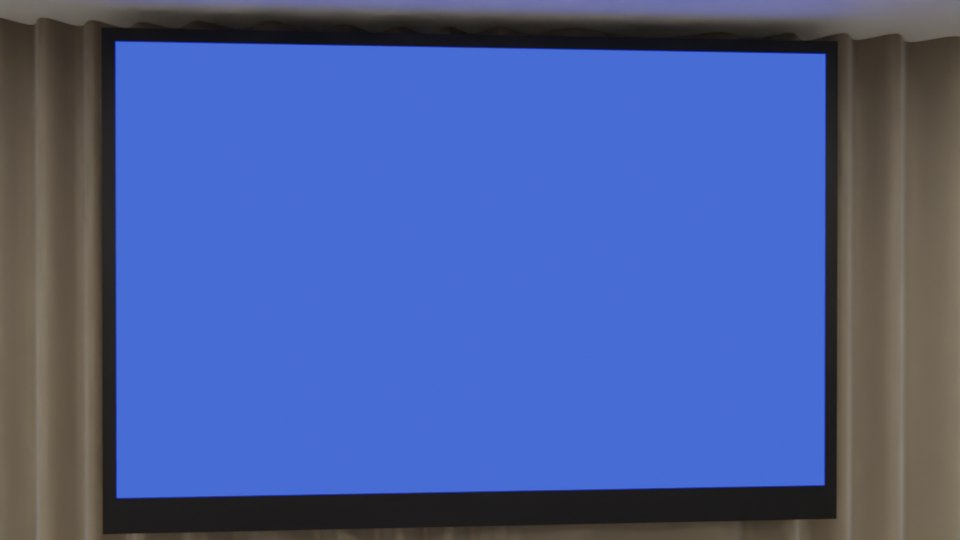
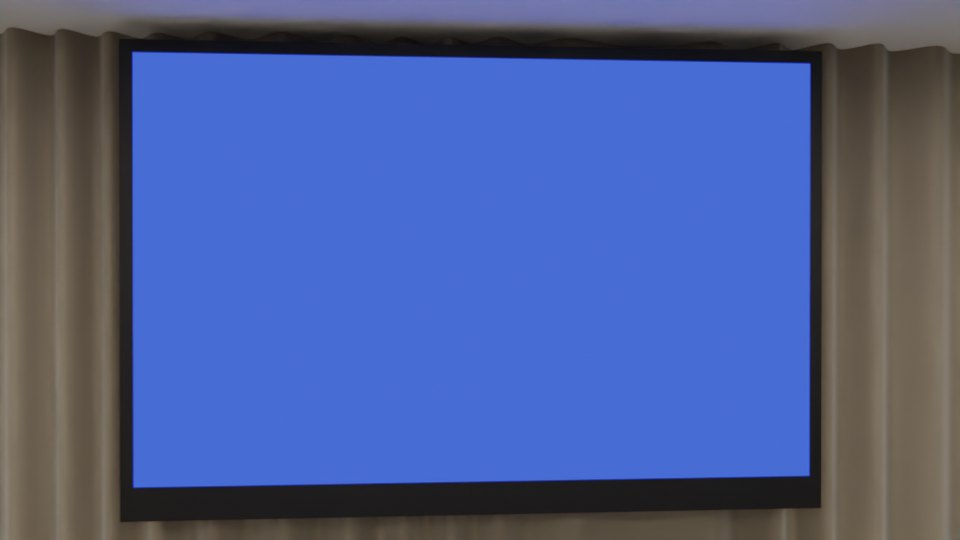
Cinema: review round 8 fixes
Phone search back to one line; one card title size, clamped; speaker names keep two
lines; snippets start at the match; a lone talk gets a double-width card; 'What to
try' instead of 'On Monday'; phone talk actions at the bottom of the totem, tabs
scroll with a fade; HTML tucked 1 cm under the bezels; plainer BOF wording; a
readable text-only link.

diff --git a/site/cinema/cinema.js b/site/cinema/cinema.js
@@ -40,6 +40,7 @@ const talks = window.DEVOXX.talks.filter((t) => t.type !== "Keynote Overflow").m
   ...t, title: clean(t.title), speakers: t.speakers.map((sp) => ({ ...sp, name: capital(clean(sp.name)) })) }));
 const speakers = (t, withCompany) => t.speakers.map((sp) => withCompany && sp.company ? `${sp.name} (${sp.company})` : sp.name).join(", ");
 const when = (t) => t.start ? `${fDay.format(new Date(t.start))} ${fTime.format(new Date(t.start))}` : null;
+const whenShort = (t) => t.start ? `${fShort.format(new Date(t.start))} Oct, ${fTime.format(new Date(t.start))}` : null;
 const whenLong = (t) => t.start ? `${fDayLong.format(new Date(t.start))}, ${fTime.format(new Date(t.start))}` : null;
 const typeLabel = (t) => (t.type === "Conference" ? "" : t.type);   // a plain talk needs no label
 const titleSize = (title, big, small) => title.length > 90 ? small : title.length > 55 ? (big + small) / 2 : big;
@@ -206,9 +207,9 @@ function why(t, terms) {
     const lower = text.toLowerCase(), w = terms.find((x) => lower.includes(x));
     if (!w) continue;
     const i = lower.indexOf(w);
-    let a = Math.max(0, i - 16);
-    if (a > 0) { const sp = text.lastIndexOf(" ", i - 1); a = sp >= a - 12 && sp >= 0 ? sp + 1 : a; }   // start on a word
-    return el("span", { class: "why" }, el("b", { text: `${name}: ` }), a ? "…" : "", text.slice(a, i), el("mark", { text: text.slice(i, i + w.length) }), text.slice(i + w.length, i + w.length + 70));
+    const a = i;                                                     // start at the match, so it's always in view
+    const word = text.slice(i).match(/^\S+/)[0].replace(/[,.;:]$/, "");    // the whole matched word, e.g. "Kotlin"
+    return el("span", { class: "why" }, el("b", { text: `${name}: ` }), a > 0 && name !== "Speaker" ? "…" : "", el("mark", { text: word }), text.slice(i + word.length, i + word.length + 70));
   }
   return null;
 }
@@ -221,7 +222,7 @@ function card(t, { when: showWhen = null, terms = null } = {}) {
       "aria-label": [t.title, speakers(t), t.room, showWhen ? when(t) : null, on ? "walks you to your seat" : null].filter(Boolean).join(", ") },
     el("span", { class: "room" }, n ? el("span", { class: "where" }, el("small", { text: "Room" }), el("b", { text: String(n) })) : el("span", { class: "where" }, el("b", { class: "is-text", text: t.room || "Room TBC" })),
       el("span", { class: "label", text: label })),
-    el("span", { class: "title", text: t.title, style: t.title.length > 72 ? "font-size:.86em" : null }),
+    el("span", { class: "title", text: t.title }),
     el("span", { class: "who", text: speakers(t) }),
     hint);
 }
@@ -266,7 +267,7 @@ function programme(tall) {
     const later = talks.filter((t) => t.start && dayKey(t.start) === day && t.start > slot).sort((a, b) => a.start.localeCompare(b.start) || (roomNo(a) || 99) - (roomNo(b) || 99));
     const fill = here.length < (tall ? 4 : 8) ? later.slice(0, (tall ? 6 : 8) - here.length) : [];
     const cards = el("div", { class: `cards scroller${tall ? "" : fill.length ? " is-packed" : " is-exact"}`, tabindex: "-1" },
-      here.map((t) => card(t, { when: fill.length ? "time" : null })),
+      here.map((t) => { const c = card(t, { when: fill.length ? "time" : null }); if (fill.length) c.classList.add(here.length === 1 ? "is-now-wide" : "is-now"); return c; }),
       fill.length ? el("div", { class: "later", text: "Later that day" }) : null, fill.map((t) => card(t, { when: "time" })));
     put(body, el("div", { class: "slot-head" }, el("b", { text: fTime.format(new Date(slot)) }),
         el("span", { text: `${fDayLong.format(new Date(slot))}, ${here.length} ${here.length === 1 ? "session" : "sessions"}. Pick a talk to take your seat.` })),
@@ -282,11 +283,11 @@ function programme(tall) {
 const toSeconds = (at) => { const [m, sec] = String(at).split(":").map(Number); return (m || 0) * 60 + (sec || 0); };
 function talkScreen(t, tall, onFloor, doorRoom = null) {
   const s = t.s || {};
-  const tabs = [["short", "In short"], ["points", "Key points"], ["monday", "On Monday"], ["chapters", "Chapters"], ["story", "Summary"]]
+  const tabs = [["short", "In short"], ["points", "Key points"], ["monday", "What to try"], ["chapters", "Chapters"], ["story", "Full summary"]]
     .filter(([id]) => (id === "short" && tall && s.tldr) || (id === "points" && s.keyPoints && s.keyPoints.length) || (id === "monday" && s.takeaways && s.takeaways.length)
       || (id === "chapters" && s.chapters && s.chapters.length && onFloor) || id === "story");
   const pane = el("div", { class: "pane scroller", tabindex: "0", "aria-label": "Talk details" });
-  const tabRow = el("div", { class: "tabs", role: "group", "aria-label": "Talk details" });
+  const tabRow = el("div", { class: `tabs${tall ? " strip" : ""}`, role: "group", "aria-label": "Talk details" });
   let playAt = null;
   const chapter = (c) => {
     const kids = [el("time", { text: c.at }), el("span", { text: c.title })];
@@ -315,8 +316,8 @@ function talkScreen(t, tall, onFloor, doorRoom = null) {
     main.textContent = "";
     put(main,
       doorRoom && tall ? el("div", { class: "door-sign" }, el("small", { text: "Room" }), el("b", { text: String(doorRoom) }), el("span", { text: t.start ? `Recorded ${fShort.format(new Date(t.start))} Oct` : "" })) : null,
-      el("div", { class: "meta", text: [doorRoom && tall ? null : t.room, whenLong(t), typeLabel(t), t.videoId ? null : "no recording yet"].filter(Boolean).join(", ") }),
-      !onFloor ? el("p", { class: "offnote", text: /^BOF/.test(t.room || "") ? "Downstairs meeting room, no cinema seat." : "No cinema seat to walk you to for this one." }) : null,
+      el("div", { class: "meta", text: [doorRoom && tall ? null : t.room, doorRoom && tall ? (t.start ? fTime.format(new Date(t.start)) : null) : whenShort(t), typeLabel(t), t.videoId ? null : "no recording yet"].filter(Boolean).join(", ") }),
+      !onFloor ? el("p", { class: "offnote", text: /^BOF/.test(t.room || "") ? `Held downstairs in ${t.room}.` : "Held outside the cinema rooms." }) : null,
       el("h2", { text: t.title, style: `--title:${titleSize(t.title, 40, 30)}px;--title-s:${titleSize(t.title, 23, 19)}px` }),
       el("div", { class: "who-l", text: speakers(t, true) }),
       !tall && s.tldr ? el("p", { class: "tldr", text: s.tldr }) : null,

diff --git a/site/cinema/cinema.css b/site/cinema/cinema.css
@@ -43,8 +43,8 @@ button, input, a { font: inherit; color: inherit; }
   opacity: .5; mix-blend-mode: soft-light; }
 
 /* chrome outside the screens: small, quiet, fixed */
-.exit { position: fixed; z-index: 5; left: 12px; top: calc(10px + env(safe-area-inset-top, 0px)); background: rgba(5, 7, 20, .55); color: rgba(174, 184, 236, .85);
-  border: 0; border-radius: 999px; padding: 6px 11px; font-size: 12px; text-decoration: none; backdrop-filter: blur(6px); }
+.exit { position: fixed; z-index: 5; left: 12px; top: calc(10px + env(safe-area-inset-top, 0px)); background: rgba(5, 7, 20, .7); color: #D5DBF7;
+  border: 1px solid rgba(174, 184, 236, .28); border-radius: 999px; padding: 6px 12px; font-size: 14px; text-decoration: none; backdrop-filter: blur(6px); }
 .exit:hover { color: var(--ink); border-color: var(--muted); }
 .exit:focus-visible { outline: 3px solid #fff; outline-offset: 2px; }
 .dock { position: fixed; z-index: 5; left: 50%; bottom: calc(16px + env(safe-area-inset-bottom, 0px)); translate: -50% 0; display: flex; gap: 8px; align-items: center; }
@@ -100,9 +100,11 @@ button, input, a { font: inherit; color: inherit; }
 .cards.is-exact > .card { height: auto; min-height: 0; }
 .card { overflow: hidden; }
 .cards.is-exact .card .title { -webkit-line-clamp: 4; }
-.cards.is-packed > .card { height: 140px; gap: 6px; }
+.cards.is-packed > .card { height: 156px; gap: 6px; }
 .cards.is-packed .card .title { -webkit-line-clamp: 2; }
-.cards.is-packed .card .who { -webkit-line-clamp: 1; }
+.cards.is-packed > .card.is-now, .cards.is-packed > .card.is-now-wide { height: 176px; }
+.cards.is-packed > .card.is-now-wide { grid-column: span 2; }
+.cards.is-packed .card.is-now .title, .cards.is-packed .card.is-now-wide .title { -webkit-line-clamp: 3; }
 .card .why { font-size: 17px; line-height: 1.35; color: var(--muted); white-space: nowrap; overflow: hidden; text-overflow: ellipsis; flex: none; }
 .card .why b { font-weight: 700; }
 .results .cards > .card, .slot .cards.scroller[aria-label="Search results"] > .card { height: auto; min-height: 172px; }
@@ -119,7 +121,7 @@ button, input, a { font: inherit; color: inherit; }
 .card .where small { font-size: 16px; font-weight: 600; }
 .card .where b.is-text { font-size: 22px; font-stretch: 100%; }
 .card .room b { font-size: 30px; font-weight: 800; font-stretch: 125%; line-height: .9; white-space: nowrap; }
-.card .title { font-size: 19px; font-weight: 700; line-height: 1.17; padding-bottom: 1px; display: -webkit-box; -webkit-line-clamp: 4; -webkit-box-orient: vertical; overflow: hidden; }
+.card .title { font-size: 18px; font-weight: 700; line-height: 1.18; padding-bottom: 1px; display: -webkit-box; -webkit-line-clamp: 4; -webkit-box-orient: vertical; overflow: hidden; }
 .card .who { font-size: 17px; line-height: 1.25; opacity: .88; display: -webkit-box; -webkit-line-clamp: 2; -webkit-box-orient: vertical; overflow: hidden; }
 .card.is-off { background: var(--panel); color: var(--ink); box-shadow: inset 0 0 0 2px var(--line); }
 .card.is-off .who { color: var(--muted); opacity: 1; }
@@ -135,7 +137,7 @@ button, input, a { font: inherit; color: inherit; }
 .prog.is-tall .prog-head { flex-direction: column; align-items: stretch; gap: 10px; }
 .prog.is-tall .brand { font-size: 25px; gap: 8px; }
 .prog.is-tall .brand small { font-size: 13px; }
-.prog.is-tall .search { width: 100%; font-size: 16px; padding: 9px 12px; border-radius: 9px; }
+.prog.is-tall .search { width: 100%; flex: none; margin-left: 0; font-size: 16px; padding: 9px 12px; border-radius: 9px; }
 .prog.is-tall .nav { gap: 12px; }
 .prog.is-tall .days .pill { font-size: 14px; padding: 6px 8px; }
 .prog.is-tall .days { gap: 5px; }
@@ -192,14 +194,19 @@ button, input, a { font: inherit; color: inherit; }
 .door-sign b { font-size: 44px; font-weight: 800; font-stretch: 125%; line-height: .9; color: var(--orange); }
 .door-sign span { margin-left: auto; font-size: 13px; font-weight: 600; color: var(--muted); }
 
-.talk.is-tall { grid-template-columns: minmax(0, 1fr); grid-template-rows: auto minmax(0, 1fr); gap: 14px; padding: 22px 18px 16px 22px; }
+.talk.is-tall { display: flex; flex-direction: column; gap: 12px; padding: 22px 18px 16px 22px; }
+.talk.is-tall .talk-main { display: contents; }
+.talk.is-tall .talk-side { flex: 1; order: 2; min-height: 0; }
+.talk.is-tall .actions { order: 3; margin-top: 4px; }
+.talk.is-tall .tabs { flex-wrap: nowrap; overflow-x: auto; scrollbar-width: none; position: relative; padding: 4px; margin: -4px -4px 4px; }
+.talk.is-tall .tabs::-webkit-scrollbar { display: none; }
 .talk.is-tall .meta { font-size: 13px; }
 .talk.is-tall .offnote { margin-top: 6px; }
 .talk.is-tall h2 { margin-top: 6px; font-size: var(--title-s, 23px); }
 .talk.is-tall .who-l { margin-top: 6px; font-size: 14px; }
 .talk.is-tall .actions { margin-top: 10px; gap: 8px; }
 .talk.is-tall .btn { font-size: 14px; padding: 8px 12px; border-radius: 9px; border-width: 1.5px; }
-.talk.is-tall .tabs { gap: 6px; margin-bottom: 8px; }
+.talk.is-tall .tabs { gap: 6px; }
 .talk.is-tall .tabs .pill { font-size: 13px; padding: 5px 9px; border-radius: 7px; border-width: 1.5px; }
 .talk.is-tall .pane { font-size: 15px; line-height: 1.45; padding-right: 4px; }
 .talk.is-tall .pane ul, .talk.is-tall .pane ol { gap: 7px; }

diff --git a/scripts/blender/build_scene.py b/scripts/blender/build_scene.py
@@ -1319,7 +1319,7 @@ def set_cam(loc, target, fov):
 def hall_pose():
     """A little left of square on to the programme screen, close enough that it fills most of a laptop's view, far
     enough that the columns, the ceiling and the curtains around it say where you are."""
-    d = fit_distance(SCREEN["w"] + 2 * BEZEL, SCREEN["h"] + BEZEL + CHIN, 40, 0.9)
+    d = fit_distance(SCREEN["w"] + 2 * BEZEL, SCREEN["h"] + BEZEL + CHIN, 40, 0.86)
     return (SCREEN["x"] - 0.06 * d, SCREEN["y"] - d, SCREEN["z"] + 0.02), (SCREEN["x"], SCREEN["y"], SCREEN["z"]), 40
 
 
@@ -1521,9 +1521,15 @@ phone_hall_cam = still_cam("cam-hall-phone", (TOTEM["x"], TOTEM["y"] - tdist, TO
                            2 * math.degrees(math.atan(math.tan(_hfov / 2) * PHONE[1] / PHONE[0])), dof=(tdist, 1.8))
 bpy.context.view_layer.update()       # matrix_world is stale until the depsgraph runs
 set_res(LAPTOP)
-shots["hall"] = {"kind": "still", "overlay": {"programme": screen_quad(screen_corners, hall_cam)}, "size": {"programme": [SCREEN["w"], SCREEN["h"]]}}
+def grow(corners, by=0.01):
+    """The quad a little larger, so the HTML tucks under the bezel and the screen's own glow never peeks out."""
+    c = Vector([sum(p[i] for p in corners) / 4 for i in range(3)])
+    return [tuple(c + (Vector(p) - c) * (1 + by / max(0.1, (Vector(p) - c).length))) for p in corners]
+
+
+shots["hall"] = {"kind": "still", "overlay": {"programme": screen_quad(grow(screen_corners), hall_cam)}, "size": {"programme": [SCREEN["w"], SCREEN["h"]]}}
 set_res(PHONE)
-shots["hall-phone"] = {"kind": "still", "overlay": {"programme": screen_quad(totem_corners, phone_hall_cam)}, "size": {"programme": [TOTEM["w"], TOTEM["h"]]}}
+shots["hall-phone"] = {"kind": "still", "overlay": {"programme": screen_quad(grow(totem_corners), phone_hall_cam)}, "size": {"programme": [TOTEM["w"], TOTEM["h"]]}}
 
 # the walk: segment A (shared per stair) from frame 1, segment B (this room) right after it
 frames_a = walk_a(west, 1)
@@ -1557,7 +1563,7 @@ door_cam = still_cam(f"cam-door-phone-{n}", (tot["x"] + dface * ddist, tot["y"],
 door_cam.data.shift_y = -0.13                 # the totem low in frame, the room numeral rising above it
 bpy.context.view_layer.update()
 set_res(PHONE)
-shots[f"door-phone-{n}"] = {"kind": "still", "overlay": {"screen": screen_quad(tot["corners"], door_cam)}, "size": {"screen": [tot["w"], tot["h"]]}}
+shots[f"door-phone-{n}"] = {"kind": "still", "overlay": {"screen": screen_quad(grow(tot["corners"]), door_cam)}, "size": {"screen": [tot["w"], tot["h"]]}}
 (OUT / f"shots-{n}.json").write_text(json.dumps(shots, indent=1))
 
 # ---------------------------------------------------------------------------------- render settings
